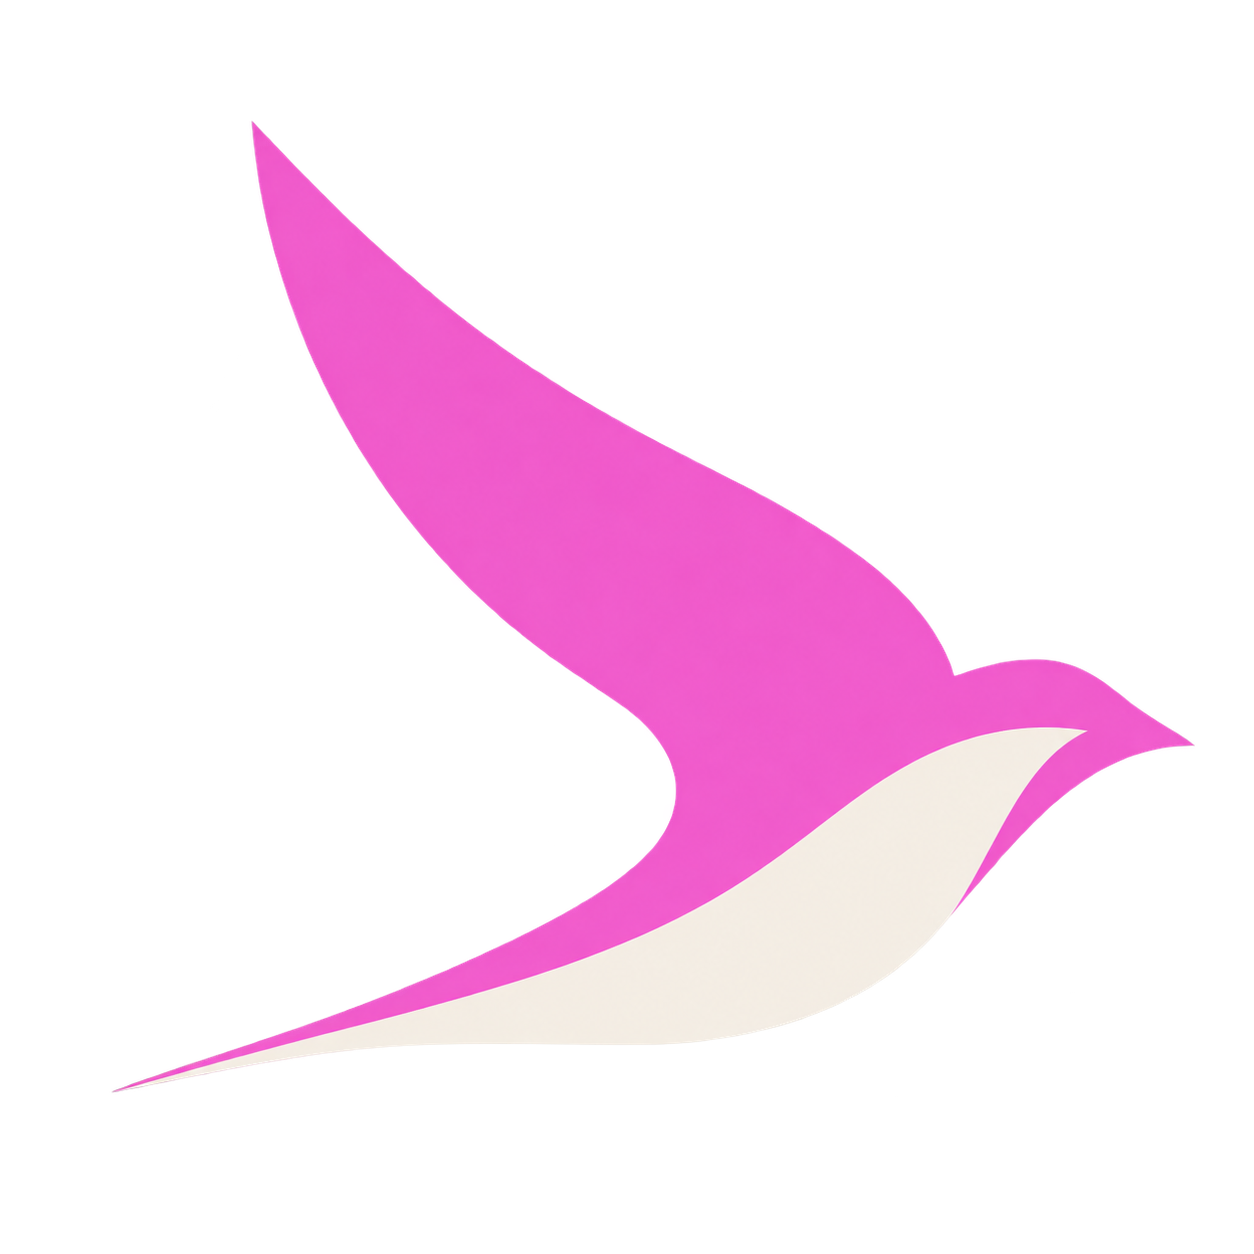
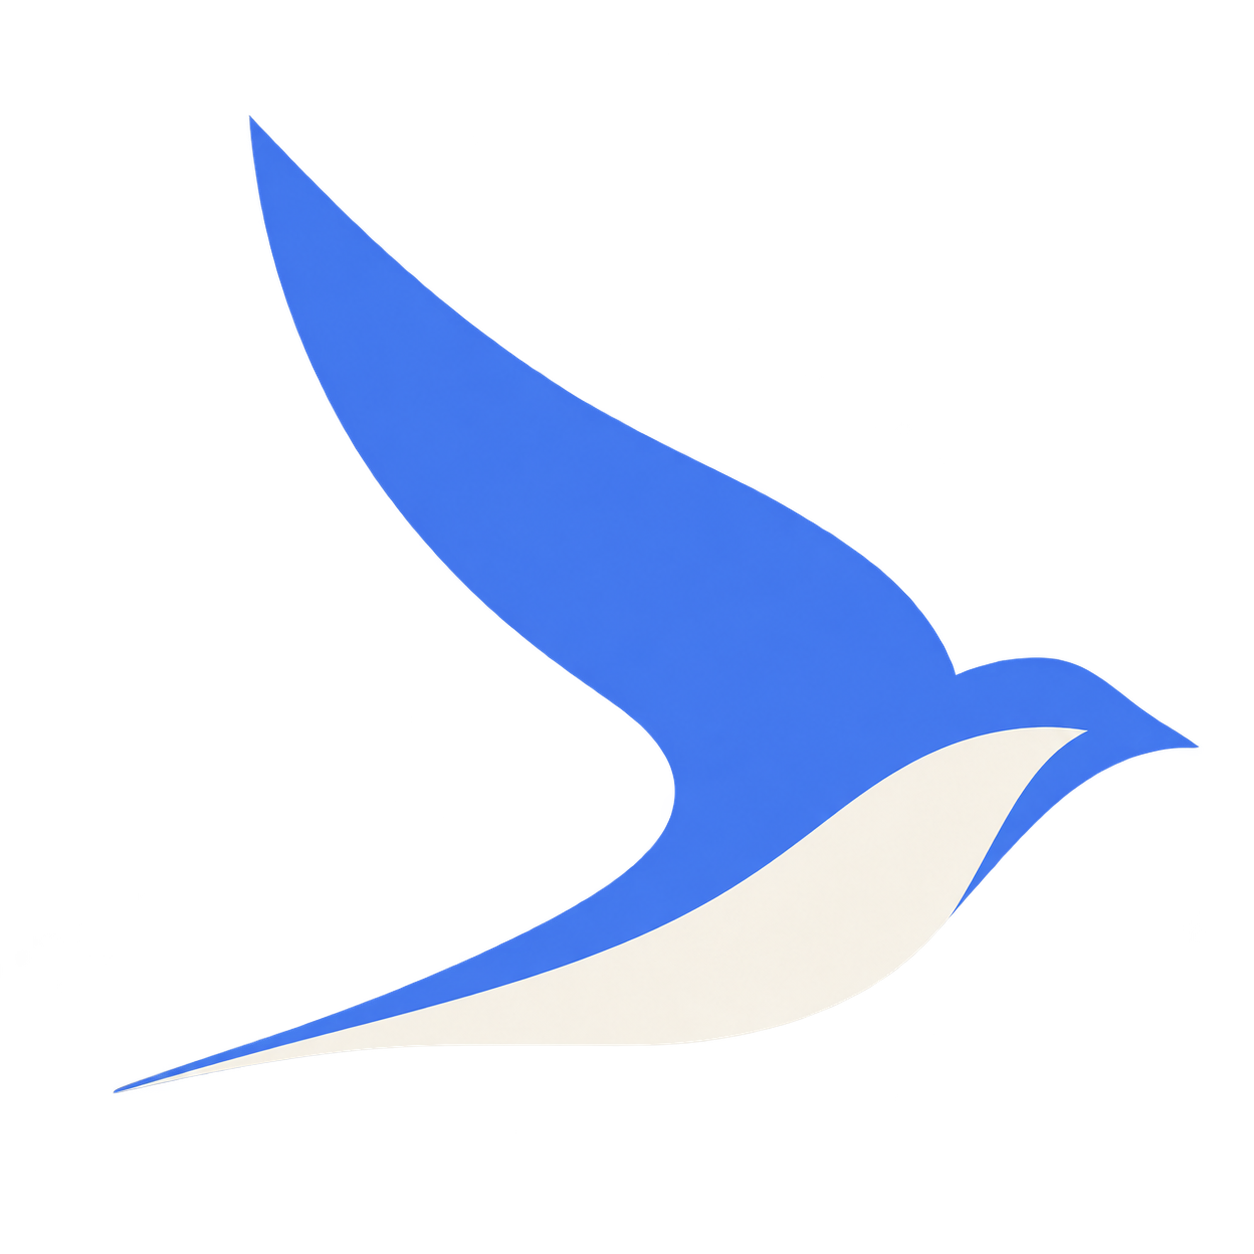
style: switch Nudge to deep blue

Changed region(s): [[0.1866, 0.0933, 0.9641, 0.8397], [0.0933, 0.8397, 0.1866, 0.8708]]

diff --git a/site/assets/css/site.css b/site/assets/css/site.css
@@ -5,25 +5,25 @@
 
 /* ---------- tokens ---------- */
 :root {
-  /* near-black plum keeps the pink clear without tinting the text */
-  --ink-0: oklch(0.135 0.009 335);
-  --ink-1: oklch(0.185 0.011 335);
-  --ink-2: oklch(0.235 0.013 335);
+  /* near-black navy keeps the blue clear without tinting the text */
+  --ink-0: oklch(0.135 0.018 260);
+  --ink-1: oklch(0.185 0.020 260);
+  --ink-2: oklch(0.235 0.026 260);
 
-  --line: oklch(0.62 0.015 335 / 0.30);
-  --line-soft: oklch(0.62 0.015 335 / 0.14);
-  --line-bright: oklch(0.80 0.015 335 / 0.42);
+  --line: oklch(0.62 0.015 260 / 0.30);
+  --line-soft: oklch(0.62 0.015 260 / 0.14);
+  --line-bright: oklch(0.80 0.015 260 / 0.42);
 
-  --fg-0: oklch(0.97 0.004 335);
-  --fg-1: oklch(0.85 0.008 335);
-  --fg-2: oklch(0.81 0.010 335);
-  --fg-3: oklch(0.78 0.010 335);
+  --fg-0: oklch(0.97 0.004 260);
+  --fg-1: oklch(0.85 0.008 260);
+  --fg-2: oklch(0.81 0.010 260);
+  --fg-3: oklch(0.78 0.010 260);
 
-  /* pink is the Nudge signal; state colors keep their own meaning */
-  --accent: oklch(0.74 0.20 335);
-  --accent-hover: oklch(0.80 0.18 335);
-  --accent-dim: oklch(0.68 0.16 335);
-  --accent-ink: oklch(0.18 0.018 335);
+  /* blue is the Nudge signal; state colors keep their own meaning */
+  --accent: oklch(0.69 0.19 260);
+  --accent-hover: oklch(0.76 0.17 260);
+  --accent-dim: oklch(0.64 0.16 260);
+  --accent-ink: oklch(0.16 0.018 260);
 
   --canvas: var(--ink-0);
   --surface-1: var(--ink-1);
@@ -41,7 +41,7 @@
   --action-secondary: var(--surface-1);
   --action-secondary-hover: var(--surface-2);
   --focus-ring: var(--accent-hover);
-  --selection-bg: oklch(0.74 0.20 335 / 0.28);
+  --selection-bg: oklch(0.69 0.19 260 / 0.28);
 
   --status-success: oklch(0.76 0.090 151);
   --status-warning: oklch(0.80 0.115 78);
@@ -325,7 +325,7 @@ main > .section:first-child {
 }
 
 .nav.is-scrolled {
-  background: oklch(0.135 0.009 335 / 0.93);
+  background: oklch(0.135 0.018 260 / 0.93);
   border-bottom-color: var(--line-soft);
 }
 
@@ -506,7 +506,7 @@ main > .section:first-child {
   position: absolute;
   inset: 0;
   z-index: 1;
-  background: radial-gradient(120% 90% at 28% 18%, oklch(0.23 0.045 335) 0%, var(--ink-0) 68%);
+  background: radial-gradient(120% 90% at 28% 18%, oklch(0.23 0.045 260) 0%, var(--ink-0) 68%);
 }
 
 .liquid canvas {
@@ -531,22 +531,22 @@ main > .section:first-child {
   pointer-events: none;
   background: linear-gradient(
       100deg,
-      oklch(0.12 0.010 335 / 0.86) 0%,
-      oklch(0.12 0.010 335 / 0.42) 42%,
+      oklch(0.12 0.010 260 / 0.86) 0%,
+      oklch(0.12 0.010 260 / 0.42) 42%,
       transparent 72%
     ),
-    linear-gradient(to bottom, oklch(0.12 0.010 335 / 0.55) 0%, transparent 26%);
+    linear-gradient(to bottom, oklch(0.12 0.010 260 / 0.55) 0%, transparent 26%);
 }
 
 @media (min-width: 1024px) {
   .hero__scrim {
     background: linear-gradient(
         100deg,
-        oklch(0.12 0.010 335 / 0.88) 0%,
-        oklch(0.12 0.010 335 / 0.4) 46%,
+        oklch(0.12 0.010 260 / 0.88) 0%,
+        oklch(0.12 0.010 260 / 0.4) 46%,
         transparent 74%
       ),
-      linear-gradient(to bottom, oklch(0.12 0.010 335 / 0.6) 0%, transparent 24%);
+      linear-gradient(to bottom, oklch(0.12 0.010 260 / 0.6) 0%, transparent 24%);
   }
 }
 
@@ -634,7 +634,7 @@ main > .section:first-child {
   gap: 0;
   width: 100%;
   border: 1px solid var(--line);
-  background: oklch(0.11 0.010 335 / 0.88);
+  background: oklch(0.11 0.010 260 / 0.88);
 }
 
 .installbox__cmd {
@@ -704,7 +704,7 @@ main > .section:first-child {
   content: "";
   position: absolute;
   inset: 4% -16%;
-  background: radial-gradient(closest-side, oklch(0.55 0.12 335 / 0.14), transparent 76%);
+  background: radial-gradient(closest-side, oklch(0.55 0.12 260 / 0.14), transparent 76%);
   pointer-events: none;
 }
 
@@ -713,7 +713,7 @@ main > .section:first-child {
   z-index: 4;
   opacity: 0;
   pointer-events: none;
-  filter: brightness(1.3) drop-shadow(0 0 12px oklch(0.74 0.20 335 / 0.8));
+  filter: brightness(1.3) drop-shadow(0 0 12px oklch(0.69 0.19 260 / 0.8));
 }
 
 .relay__notice {
@@ -729,7 +729,7 @@ main > .section:first-child {
   padding: 12px 14px;
   border: 1px solid var(--line-bright);
   border-radius: 15px;
-  background: oklch(0.18 0.018 335 / 0.95);
+  background: oklch(0.18 0.018 260 / 0.95);
   box-shadow: 0 18px 46px -18px oklch(0 0 0 / 0.8);
   opacity: 0;
   pointer-events: none;
@@ -740,8 +740,8 @@ main > .section:first-child {
 
 .relay__notice.is-arrived {
   opacity: 1;
-  border-color: oklch(0.74 0.20 335 / 0.72);
-  box-shadow: 0 18px 46px -18px oklch(0 0 0 / 0.8), 0 0 28px oklch(0.74 0.20 335 / 0.24);
+  border-color: oklch(0.69 0.19 260 / 0.72);
+  box-shadow: 0 18px 46px -18px oklch(0 0 0 / 0.8), 0 0 28px oklch(0.69 0.19 260 / 0.24);
   transform: translateX(-50%);
 }
 
@@ -797,7 +797,7 @@ main > .section:first-child {
   background: radial-gradient(
     circle at 30% 25%,
     var(--tint, oklch(1 0 0 / 0.09)),
-    oklch(0.15 0.014 335 / 0.95) 68%
+    oklch(0.15 0.014 260 / 0.95) 68%
   );
   box-shadow: 0 24px 54px -20px oklch(0 0 0 / 0.75), inset 0 2px 0 oklch(1 0 0 / 0.07);
   transform: rotate(calc(var(--rot) * 1deg));
@@ -806,8 +806,8 @@ main > .section:first-child {
 
 .pmark__card:hover,
 .pmark__card:focus-visible {
-  border-color: oklch(0.74 0.20 335 / 0.5);
-  box-shadow: 0 24px 54px -18px oklch(0 0 0 / 0.8), 0 0 0 1px oklch(0.74 0.20 335 / 0.3),
+  border-color: oklch(0.69 0.19 260 / 0.5);
+  box-shadow: 0 24px 54px -18px oklch(0 0 0 / 0.8), 0 0 0 1px oklch(0.69 0.19 260 / 0.3),
     inset 0 2px 0 oklch(1 0 0 / 0.1);
 }
 
@@ -820,7 +820,7 @@ main > .section:first-child {
 
 .pmark.is-sending .pmark__card {
   border-color: var(--accent);
-  box-shadow: 0 0 0 1px oklch(0.74 0.20 335 / 0.5), 0 0 28px oklch(0.74 0.20 335 / 0.35);
+  box-shadow: 0 0 0 1px oklch(0.69 0.19 260 / 0.5), 0 0 28px oklch(0.69 0.19 260 / 0.35);
 }
 
 @media (prefers-reduced-motion: no-preference) {
@@ -1171,7 +1171,7 @@ main > .section:first-child {
 
 .term {
   border: 1px solid var(--line);
-  background: oklch(0.105 0.010 335 / 0.9);
+  background: oklch(0.105 0.010 260 / 0.9);
 }
 
 .term__bar {
@@ -1261,7 +1261,7 @@ main > .section:first-child {
 .footer {
   border-top: 1px solid var(--line-soft);
   padding-block: 56px 40px;
-  background: oklch(0.125 0.008 335);
+  background: oklch(0.125 0.008 260);
 }
 
 .footer__grid {

diff --git a/site/how/index.html b/site/how/index.html
@@ -1,5 +1,5 @@
 <!doctype html><html lang="en"><head><meta charset="utf-8" /><meta name="viewport" content="width=device-width, initial-scale=1, viewport-fit=cover" />
-<title>How it works — Nudge</title><meta name="description" content="How notifications travel from your agent through ntfy to your phone, including access modes." /><meta name="color-scheme" content="dark" /><meta name="theme-color" content="#100e0b" />
+<title>How it works — Nudge</title><meta name="description" content="How notifications travel from your agent through ntfy to your phone, including access modes." /><meta name="color-scheme" content="dark" /><meta name="theme-color" content="#10131d" />
 <link rel="icon" type="image/png" href="/assets/nudge-bird.png" />
 <link rel="preconnect" href="https://fonts.googleapis.com" /><link rel="preconnect" href="https://fonts.gstatic.com" crossorigin /><link rel="stylesheet" href="https://fonts.googleapis.com/css2?family=Bricolage+Grotesque:opsz,wdth,wght@10..48,75..100,200..800&family=IBM+Plex+Mono:wght@400;500&family=IBM+Plex+Sans:wght@400;500;600&display=swap" /><link rel="stylesheet" href="/assets/css/site.css" /></head><body>
 <a class="skip" href="#main">Skip to content</a>

diff --git a/site/install/index.html b/site/install/index.html
@@ -1,5 +1,5 @@
 <!doctype html><html lang="en"><head><meta charset="utf-8" /><meta name="viewport" content="width=device-width, initial-scale=1, viewport-fit=cover" />
-<title>Install — Nudge</title><meta name="description" content="Install Nudge and connect your OpenCode agent to your phone." /><meta name="color-scheme" content="dark" /><meta name="theme-color" content="#100e0b" />
+<title>Install — Nudge</title><meta name="description" content="Install Nudge and connect your OpenCode agent to your phone." /><meta name="color-scheme" content="dark" /><meta name="theme-color" content="#10131d" />
 <link rel="icon" type="image/png" href="/assets/nudge-bird.png" />
 <link rel="preconnect" href="https://fonts.googleapis.com" /><link rel="preconnect" href="https://fonts.gstatic.com" crossorigin /><link rel="stylesheet" href="https://fonts.googleapis.com/css2?family=Bricolage+Grotesque:opsz,wdth,wght@10..48,75..100,200..800&family=IBM+Plex+Mono:wght@400;500&family=IBM+Plex+Sans:wght@400;500;600&display=swap" /><link rel="stylesheet" href="/assets/css/site.css" /></head><body>
 <a class="skip" href="#main">Skip to content</a>

diff --git a/site/events/index.html b/site/events/index.html
@@ -1,5 +1,5 @@
 <!doctype html><html lang="en"><head><meta charset="utf-8" /><meta name="viewport" content="width=device-width, initial-scale=1, viewport-fit=cover" />
-<title>Notifications — Nudge</title><meta name="description" content="The notification events Nudge sends to your phone." /><meta name="color-scheme" content="dark" /><meta name="theme-color" content="#100e0b" />
+<title>Notifications — Nudge</title><meta name="description" content="The notification events Nudge sends to your phone." /><meta name="color-scheme" content="dark" /><meta name="theme-color" content="#10131d" />
 <link rel="icon" type="image/png" href="/assets/nudge-bird.png" />
 <link rel="preconnect" href="https://fonts.googleapis.com" /><link rel="preconnect" href="https://fonts.gstatic.com" crossorigin /><link rel="stylesheet" href="https://fonts.googleapis.com/css2?family=Bricolage+Grotesque:opsz,wdth,wght@10..48,75..100,200..800&family=IBM+Plex+Mono:wght@400;500&family=IBM+Plex+Sans:wght@400;500;600&display=swap" /><link rel="stylesheet" href="/assets/css/site.css" /></head><body>
 <a class="skip" href="#main">Skip to content</a>

diff --git a/site/assets/js/liquid.js b/site/assets/js/liquid.js
@@ -155,12 +155,12 @@
     "  vec2 w = p + r + (uScroll * 0.2) + flow * 0.75 + stir * 0.4 * vec2(r.y, -r.x);",
     "  float f = fbm(w);",
     "  float sheen = uQuality * clamp(length(r) * 0.6, 0.0, 1.0);",
-    "  vec3 base = vec3(0.013, 0.010, 0.015);",
-    "  vec3 mid  = vec3(0.060, 0.027, 0.060);",
-    "  vec3 high = vec3(0.410, 0.120, 0.320);",
+    "  vec3 base = vec3(0.010, 0.014, 0.030);",
+    "  vec3 mid  = vec3(0.020, 0.041, 0.095);",
+    "  vec3 high = vec3(0.065, 0.165, 0.460);",
     "  vec3 color = mix(base, mid, clamp(f * f * 4.0, 0.0, 1.0));",
     "  color = mix(color, high, clamp(length(q) * length(r) * f, 0.0, 1.0) * (0.55 + pull * 0.45));",
-    "  color += vec3(0.18, 0.05, 0.14) * sheen * (0.5 + uVelocity * 0.35);",
+    "  color += vec3(0.05, 0.10, 0.24) * sheen * (0.5 + uVelocity * 0.35);",
     "  float v = smoothstep(2.4, 0.15, length(p));",
     "  color *= 0.42 + 0.58 * v;",
     "  color *= smoothstep(0.0, 0.22, uv.y);",

diff --git a/site/index.html b/site/index.html
@@ -6,7 +6,7 @@
     <title>Nudge — phone notifications for your coding agent</title>
     <meta name="description" content="Get a phone notification when your OpenCode agent needs you or finishes a task." />
     <meta name="color-scheme" content="dark" />
-    <meta name="theme-color" content="#100e0b" />
+    <meta name="theme-color" content="#10131d" />
     <link rel="icon" type="image/png" href="/assets/nudge-bird.png" />
     <link rel="preconnect" href="https://fonts.googleapis.com" />
     <link rel="preconnect" href="https://fonts.gstatic.com" crossorigin />

diff --git a/site/docs/index.html b/site/docs/index.html
@@ -6,7 +6,7 @@
     <title>Docs — Nudge</title>
     <meta name="description" content="Documentation for Nudge: install paths, configuration reference, access modes, troubleshooting, and uninstall." />
     <meta name="color-scheme" content="dark" />
-    <meta name="theme-color" content="#100e0b" />
+    <meta name="theme-color" content="#10131d" />
     <link rel="icon" type="image/png" href="/assets/nudge-bird.png" />
     <link rel="preconnect" href="https://fonts.googleapis.com" />
     <link rel="preconnect" href="https://fonts.gstatic.com" crossorigin />
